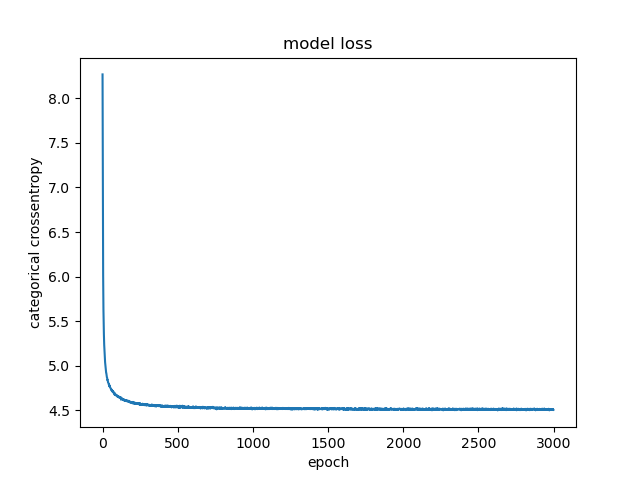
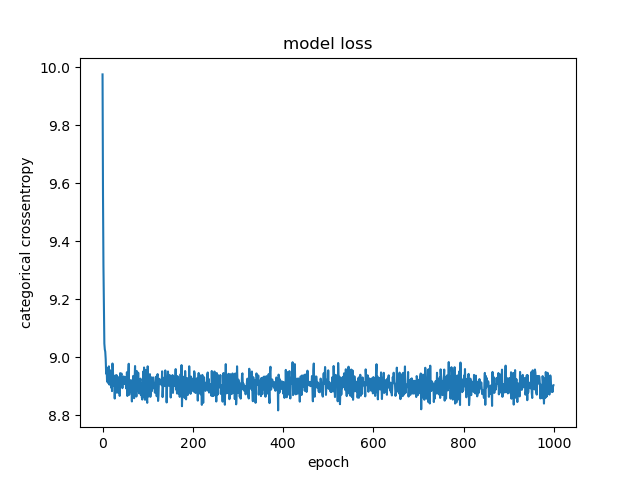
small changes

diff --git a/comparasion.py b/comparasion.py
@@ -2,7 +2,7 @@ from lib2to3.pgen2 import grammar
 import numpy as np
 from preProcess import getTextAndVocab
 from methods import trainModel
-from main import findNeighbours, getKeyByValue
+from main import findNeighbours, getKeyByValue, plotPoints
 import matplotlib.pyplot as plt
 from mpl_toolkits.mplot3d import axes3d
 from mpl_toolkits.mplot3d.art3d import Line3DCollection
@@ -107,7 +107,7 @@ def meanDistanceIn(group, embedding_dict):
         for i, j in itertools.combinations(group,2):#uniqueCombBetween(group,group)[0]:
             dist.append(np.linalg.norm(embedding_dict.get(i)-embedding_dict.get(j)))
     else:
-        for (i, j) in zip(random.choices(group,k=200),random.choices(group,k=400)):
+        for (i, j) in zip(random.choices(group,k=400),random.choices(group,k=400)):
             dist.append(np.linalg.norm(embedding_dict.get(i)-embedding_dict.get(j)))
     return np.mean(dist), np.var(dist), len(dist)
 
@@ -132,7 +132,7 @@ plt.savefig('plots/zipS.png')
 
 
 
-ind = np.argpartition(counts, -10)[-10:]
+ind = np.argpartition(counts, -100)[-100:]
 
 #print([getKeyByValue(word_dict,i) for i in np.argwhere(counts>1)])
 
@@ -142,7 +142,7 @@ print([getKeyByValue(word_dict,i) for i in ind])
 
 top20words= [list(word_dict.keys())[i] for i in ind]
 
-model = keras.models.load_model('CBOWmodelN2.h5')
+model = keras.models.load_model('CBOWmodelNH20.h5')
 weights = model.get_weights()[0]
 #print(np.shape(weights))
 embedding_dict_cbow = {}
@@ -151,7 +151,7 @@ for word in list(word_dict.keys()):
         word: weights[word_dict.get(word),:]
         })
 
-model = keras.models.load_model('SkipmodelN2.h5')
+model = keras.models.load_model('SkipmodelNH20.h5')
 weights = model.get_weights()[0]
 #print(np.shape(weights))
 embedding_dict_skip = {}
@@ -178,6 +178,7 @@ def twoSampleTtest(variable, cbow):
     print('t test value for ' + variable +': ' +str(t)+'\n')
     p = scipy.stats.t.sf(abs(t), df=n1 + n2-2)
     print('p test value for ' + variable +': ' +str(p)+'\n')
+    return p
     
 
 
@@ -187,102 +188,35 @@ print('CBOW mean dist: '+ str(CBOWmean))
 skipmean=meanDistanceIn(list(word_dict.keys()), embedding_dict_skip)
 print('Skip mean dist: '+ str(skipmean))
 
-twoSampleTtest('filosofia',True)
-twoSampleTtest('filosofia',False)
-twoSampleTtest('likefilosofia',True)
-twoSampleTtest('likefilosofia',False)
+words=['filosofia','karhu', 'lentokone','pasta', 'tyyny', 'wikipedia']
 
-twoSampleTtest('karhu',True)
-twoSampleTtest('karhu',False)
-twoSampleTtest('likekarhu',True)
-twoSampleTtest('likekarhu',False)
+pValues=[]
+for word in words:
+    temp=[]
+    temp.append(twoSampleTtest(word,True))
+    if not word=='lentokone':
+        temp.append(twoSampleTtest('like'+word,True))
+    temp.append(twoSampleTtest(word,False))
+    if not word == 'lentokone':
+        temp.append(twoSampleTtest('like'+word,False))
+    pValues.append(temp)
 
-twoSampleTtest('wikipedia',True)
-twoSampleTtest('wikipedia',False)
-twoSampleTtest('likewikipedia',True)
-twoSampleTtest('likewikipedia',False)
+print(pValues)
 
-twoSampleTtest('tyyny',True)
-twoSampleTtest('tyyny',False)
-twoSampleTtest('liketyyny',True)
-twoSampleTtest('liketyyny',False)
+for test in words:
+    print(test)
+    print("CBOW")
+    for pair in findNeighbours(test, embedding_dict_cbow,4):
+        print(pair)
 
-twoSampleTtest('pasta',True)
-twoSampleTtest('pasta',False)
-twoSampleTtest('likepasta',True)
-twoSampleTtest('likepasta',False)
+    print("Skip")
+    for pair in findNeighbours(test, embedding_dict_skip,4):
+        print(pair)
 
-twoSampleTtest('lentokone',True)
-twoSampleTtest('lentokone',False)
-#twoSampleTtest('likelentokone',True)
-#twoSampleTtest('likelentokone',False)
-'''
+allContextWords=[]
+colors=[]
+for word in words:
+    allContextWords.append(list(itertools.chain(*list(csv.reader(np.loadtxt(folder+word+'.csv', dtype=str,delimiter='\n') )))))
+allContextWords=itertools.chain(*allContextWords)
 
-filosofia = list(itertools.chain(*list(csv.reader(np.loadtxt(folder+'filosofia.csv', dtype=str,delimiter='\n') ))))#np.genfromtxt(folder+'filosofia.csv', dtype=str, delimiter='\n')
-print('Filosofia in dist CBOW ' + str( meanDistanceIn(filosofia, embedding_dict_cbow)))
-filosofialike  = list(itertools.chain(*list(csv.reader(np.loadtxt(folder+'likefilosofia.csv', dtype=str,delimiter='\n') ))))
-print('Filosofia like in dist CBOW ' + str(meanDistanceIn(filosofialike, embedding_dict_cbow)))
-
-filosofia = list(itertools.chain(*list(csv.reader(np.loadtxt(folder+'filosofia.csv', dtype=str,delimiter='\n') ))))#np.genfromtxt(folder+'filosofia.csv', dtype=str, delimiter='\n')
-print('Filosofia in dist skip ' + str( meanDistanceIn(filosofia, embedding_dict_skip)))
-filosofialike  = list(itertools.chain(*list(csv.reader(np.loadtxt(folder+'likefilosofia.csv', dtype=str,delimiter='\n') ))))
-print('Filosofia like in dist skip ' + str(meanDistanceIn(filosofialike, embedding_dict_skip)))
-
-
-
-karhu = list(itertools.chain(*list(csv.reader(np.loadtxt(folder+'karhu.csv', dtype=str,delimiter='\n') ))))#np.genfromtxt(folder+'filosofia.csv', dtype=str, delimiter='\n')
-print('Karhu in dist CBOW ' + str( meanDistanceIn(karhu, embedding_dict_cbow)))
-karhulike  = list(itertools.chain(*list(csv.reader(np.loadtxt(folder+'likekarhu.csv', dtype=str,delimiter='\n') ))))
-print('Karhu like in dist CBOW ' + str(meanDistanceIn(karhulike, embedding_dict_cbow)))
-
-print('Karhu in dist skip ' + str( meanDistanceIn(karhu, embedding_dict_skip)))
-
-print('Karhu like in dist skip' + str(meanDistanceIn(karhulike, embedding_dict_skip)))
-
-#lentsikka
-
-karhu = list(itertools.chain(*list(csv.reader(np.loadtxt(folder+'lentokone.csv', dtype=str,delimiter='\n') ))))#np.genfromtxt(folder+'filosofia.csv', dtype=str, delimiter='\n')
-print('LK in dist CBOW ' + str( meanDistanceIn(karhu, embedding_dict_cbow)))
-#karhulike  = list(itertools.chain(*list(csv.reader(np.loadtxt(folder+'likelentokone.csv', dtype=str,delimiter='\n') ))))
-#print('LK like in dist CBOW ' + str(meanDistanceIn(karhulike, embedding_dict_cbow)))
-
-print('LK in dist skip ' + str( meanDistanceIn(karhu, embedding_dict_skip)))
-
-#print('LK like in dist skip' + str(meanDistanceIn(karhulike, embedding_dict_skip)))
-
-#pasta
-
-karhu = list(itertools.chain(*list(csv.reader(np.loadtxt(folder+'pasta.csv', dtype=str,delimiter='\n') ))))#np.genfromtxt(folder+'filosofia.csv', dtype=str, delimiter='\n')
-print('Pasta in dist CBOW ' + str( meanDistanceIn(karhu, embedding_dict_cbow)))
-karhulike  = list(itertools.chain(*list(csv.reader(np.loadtxt(folder+'likepasta.csv', dtype=str,delimiter='\n') ))))
-print('Pasta like in dist CBOW ' + str(meanDistanceIn(karhulike, embedding_dict_cbow)))
-
-print('Pasta in dist skip ' + str( meanDistanceIn(karhu, embedding_dict_skip)))
-
-print('Pasta like in dist skip' + str(meanDistanceIn(karhulike, embedding_dict_skip)))
-
-
-#tyyny
-
-karhu = list(itertools.chain(*list(csv.reader(np.loadtxt(folder+'tyyny.csv', dtype=str,delimiter='\n') ))))#np.genfromtxt(folder+'filosofia.csv', dtype=str, delimiter='\n')
-print('Tyyny in dist CBOW ' + str( meanDistanceIn(karhu, embedding_dict_cbow)))
-karhulike  = list(itertools.chain(*list(csv.reader(np.loadtxt(folder+'liketyyny.csv', dtype=str,delimiter='\n') ))))
-print('Tyyny like in dist CBOW ' + str(meanDistanceIn(karhulike, embedding_dict_cbow)))
-
-print('Tyyny in dist skip ' + str( meanDistanceIn(karhu, embedding_dict_skip)))
-
-print('Tyyny like in dist skip' + str(meanDistanceIn(karhulike, embedding_dict_skip)))
-
-#wiki
-
-karhu = list(itertools.chain(*list(csv.reader(np.loadtxt(folder+'wikipedia.csv', dtype=str,delimiter='\n') ))))#np.genfromtxt(folder+'filosofia.csv', dtype=str, delimiter='\n')
-print('Wiki in dist CBOW ' + str( meanDistanceIn(karhu, embedding_dict_cbow)))
-karhulike  = list(itertools.chain(*list(csv.reader(np.loadtxt(folder+'likewikipedia.csv', dtype=str,delimiter='\n') ))))
-print('Wiki like in dist CBOW ' + str(meanDistanceIn(karhulike, embedding_dict_cbow)))
-
-print('Wiki in dist skip ' + str( meanDistanceIn(karhu, embedding_dict_skip)))
-
-print('Wiki like in dist skip' + str(meanDistanceIn(karhulike, embedding_dict_skip)))
-
-'''
-
+plotPoints(allContextWords, embedding_dict_skip, np.shape(weights)[1], 'plots/embeddingSpaceSkip20')

diff --git a/main.py b/main.py
@@ -1,53 +1,68 @@
 
+from turtle import pu
 import numpy as np
 from preProcess import getTextAndVocab
 from methods import trainModel
 import matplotlib.pyplot as plt
-from mpl_toolkits.mplot3d import axes3d
-from mpl_toolkits.mplot3d.art3d import Line3DCollection
 from mpl_toolkits.mplot3d.proj3d import proj_transform
 from matplotlib.text import Annotation
+from sklearn.decomposition import PCA
+import matplotlib.patches as mpatches
 
-class Annotation3D(Annotation):
-    '''Annotate the point xyz with text s'''
-
-    def __init__(self, s, xyz, *args, **kwargs):
-        Annotation.__init__(self,s, xy=(0,0), *args, **kwargs)
-        self._verts3d = xyz        
-
-    def draw(self, renderer):
-        xs3d, ys3d, zs3d = self._verts3d
-        xs, ys, zs = proj_transform(xs3d, ys3d, zs3d, renderer.M)
-        self.xy=(xs,ys)
-        Annotation.draw(self, renderer)
-
-def annotate3D(ax, s, *args, **kwargs):
-    '''add anotation text s to to Axes3d ax'''
-
-    tag = Annotation3D(s, *args, **kwargs)
-    ax.add_artist(tag)
 
 def getKeyByValue(dict, val):
     return [k for k, v in dict.items() if v==val]
 
+def getColor(word):
+    colorwords=['filosof','karh', 'lentokon','past', 'tyyn', 'wiki']
+    colors = ['green','tab:brown', 'blue', 'orange','purple' , 'red', 'black']
+    for i, match in enumerate(colorwords):
+        if match in word:
+            return colors[i]
+    return 'black'
+
 def plotPoints(words,dict,d,path):
+    green_patch = mpatches.Patch(color='green', label='philosophy')
+    brown_patch = mpatches.Patch(color='tab:brown', label='bear')
+    blue_patch = mpatches.Patch(color='blue', label='airplane')
+    orange_patch = mpatches.Patch(color='orange', label='pasta')
+    purple_patch = mpatches.Patch(color='purple', label='pillow')
+    red_patch = mpatches.Patch(color='red', label='wikipedia')
+    black_patch = mpatches.Patch(color='black', label='other')
+
+    
     if d==2:
-        plt.figure(figsize=(20, 10))
+        plt.figure(figsize=(10, 10))
     
         for word in words:
             coord = dict.get(word)
-            plt.scatter(coord[0], coord[1])
-            plt.annotate(word, (coord[0], coord[1]), fontsize=12)
+            col =  getColor(word)
+            plt.scatter(coord[0], coord[1], c=col)
+            plt.annotate(word, (coord[0], coord[1]), fontsize=10)
     else:
-        fig = plt.figure(dpi=60)
-        ax = fig.gca(projection='3d')
-        #ax.set_axis_off()
+
+        plt.figure(figsize=(10, 10))
+        pca = PCA(n_components=2)
+        print(np.shape(list(dict.values())))
+        principalComponents = pca.fit_transform(list(dict.values()))
+        print(np.shape(principalComponents))
+        dictWords=list(dict.keys())
+        print('Components explain')
+        pca2 = PCA()
+        pca2.fit_transform(list(dict.values()))
+        print(pca2.explained_variance_ratio_)
+        
         for word in words:
-            coord = dict.get(word)
-            ax.scatter(coord[0], coord[1], coord[2], marker='o', c = 'c', s = 44) 
-            annotate3D(ax, s=word, xyz=(coord[0], coord[1], coord[2]), fontsize=7, xytext=(-3,3),
-                       textcoords='offset points', ha='right',va='bottom')     
+            col =  getColor(word)
+            coord = principalComponents[dictWords.index(word),:]
+            plt.scatter(coord[0], coord[1], c=col)
+            plt.annotate(word, (coord[0], coord[1]), fontsize=10)
+            plt.xlabel('1. principal component')
+            plt.ylabel('2. principal component')
+        
+
     #plt.show()
+    plt.legend(handles=[red_patch,green_patch, brown_patch, blue_patch, orange_patch, purple_patch, black_patch])
     plt.savefig(path)
 
 def findNeighbours(word, embedding_dict, n):
@@ -75,8 +90,8 @@ def findNeighbours(word, embedding_dict, n):
 
 def main():
     window = 2
-    d=5
-    epochs=3000
+    d= 20
+    epochs=1000
     sentences, word_dict = getTextAndVocab(stemming=False)
     
     counts= np.zeros(len(word_dict))

diff --git a/methods.py b/methods.py
@@ -22,16 +22,18 @@ def getXYcbow(sentences, window, word_dict, n):
 
     #create a sentence one-hot matrix with zero paddings
     for sentence in tqdm(sentences):
-        tempVect = np.zeros((len(sentence), n))
+        if len(sentence)>2*window:
+            tempVect = np.zeros((len(sentence), n))
 
-        for i, word in enumerate(sentence):
-            tempVect[i,  word_dict.get(word)] = 1
-        
-        for i in range(window,len(sentence)-window):
-            # Getting the indices
-            Y.append(tempVect[i, :])
-            X_row= tempVect[np.r_[i-window:i, (i+1):(i+window+1)]]
-            X.append(X_row)
+            for i, word in enumerate(sentence):
+                tempVect[i,  word_dict.get(word)] = 1
+            #print(np.argwhere(tempVect==1))
+            for i in range(window,len(sentence)-window):
+                # Getting the indices
+                Y.append(tempVect[i, :])
+                X_row= tempVect[np.r_[(i-window):i, (i+1):(i+window+1)],:]
+                
+                X.append(X_row)
 
     return X, Y
 
@@ -94,19 +96,21 @@ def trainModel(sentences, word_dict, window, d, epochs, cbow:True):
     n = len(word_dict)
     if cbow:
         X,Y = getXYcbow(sentences,window,word_dict,n)
+        print('XDATACBOW')
         print(np.shape(X))
         X = np.asarray(X)
         Y = np.asarray(Y)
 
         inp = Input(shape=(2*window,np.shape(X)[2],))
         x = Dense(units=d, activation='linear')(inp) #input_dim=np.shape(X)[1], output_dim=d, input_length=window*2)(inp)#units=d, activation='linear')(inp) #'linear'
-        x = Lambda(lambda t: K.mean(t, axis=1), output_shape=(d,))(x)
-        x = Dense(units=np.shape(Y)[1], activation='softmax')(x)
-        model = Model(inputs=inp, outputs=x)
+        lam = Lambda(lambda t: K.mean(t, axis=1), output_shape=(d,))(x)
+        out = Dense(units=np.shape(Y)[1], activation='softmax')(lam)
+        model = Model(inputs=inp, outputs=out)
         opt = Adam(learning_rate=0.05)
         model.compile(loss = 'categorical_crossentropy', optimizer = opt, metrics=['accuracy'])
     else:
         X,Y = getXYskipGram(sentences,window,word_dict)
+        print('XDATASkip')
         X = np.asarray(X)
         Y = np.asarray(Y)
 
@@ -122,7 +126,7 @@ def trainModel(sentences, word_dict, window, d, epochs, cbow:True):
         x=X, 
         y=Y, 
         #validation_split=0.3,
-        batch_size=258, 
+        batch_size=20,#256 
         epochs=epochs,
         verbose=1
         )

diff --git a/preProcess.py b/preProcess.py
@@ -4,6 +4,7 @@ from nltk.corpus import stopwords
 import re
 from nltk.stem.snowball import SnowballStemmer
 from nltk import tokenize
+import random
 
 #nltk.download('stopwords')
 stemmer = SnowballStemmer("finnish")
@@ -93,7 +94,7 @@ def getTextAndVocab(stemming:True):
             if not item in Vocab:
                 Vocab.append(item)
     #print(Vocab)
-
+    #random.shuffle(Vocab)
     word_dict = {}
 
     for i, word in enumerate(Vocab):
